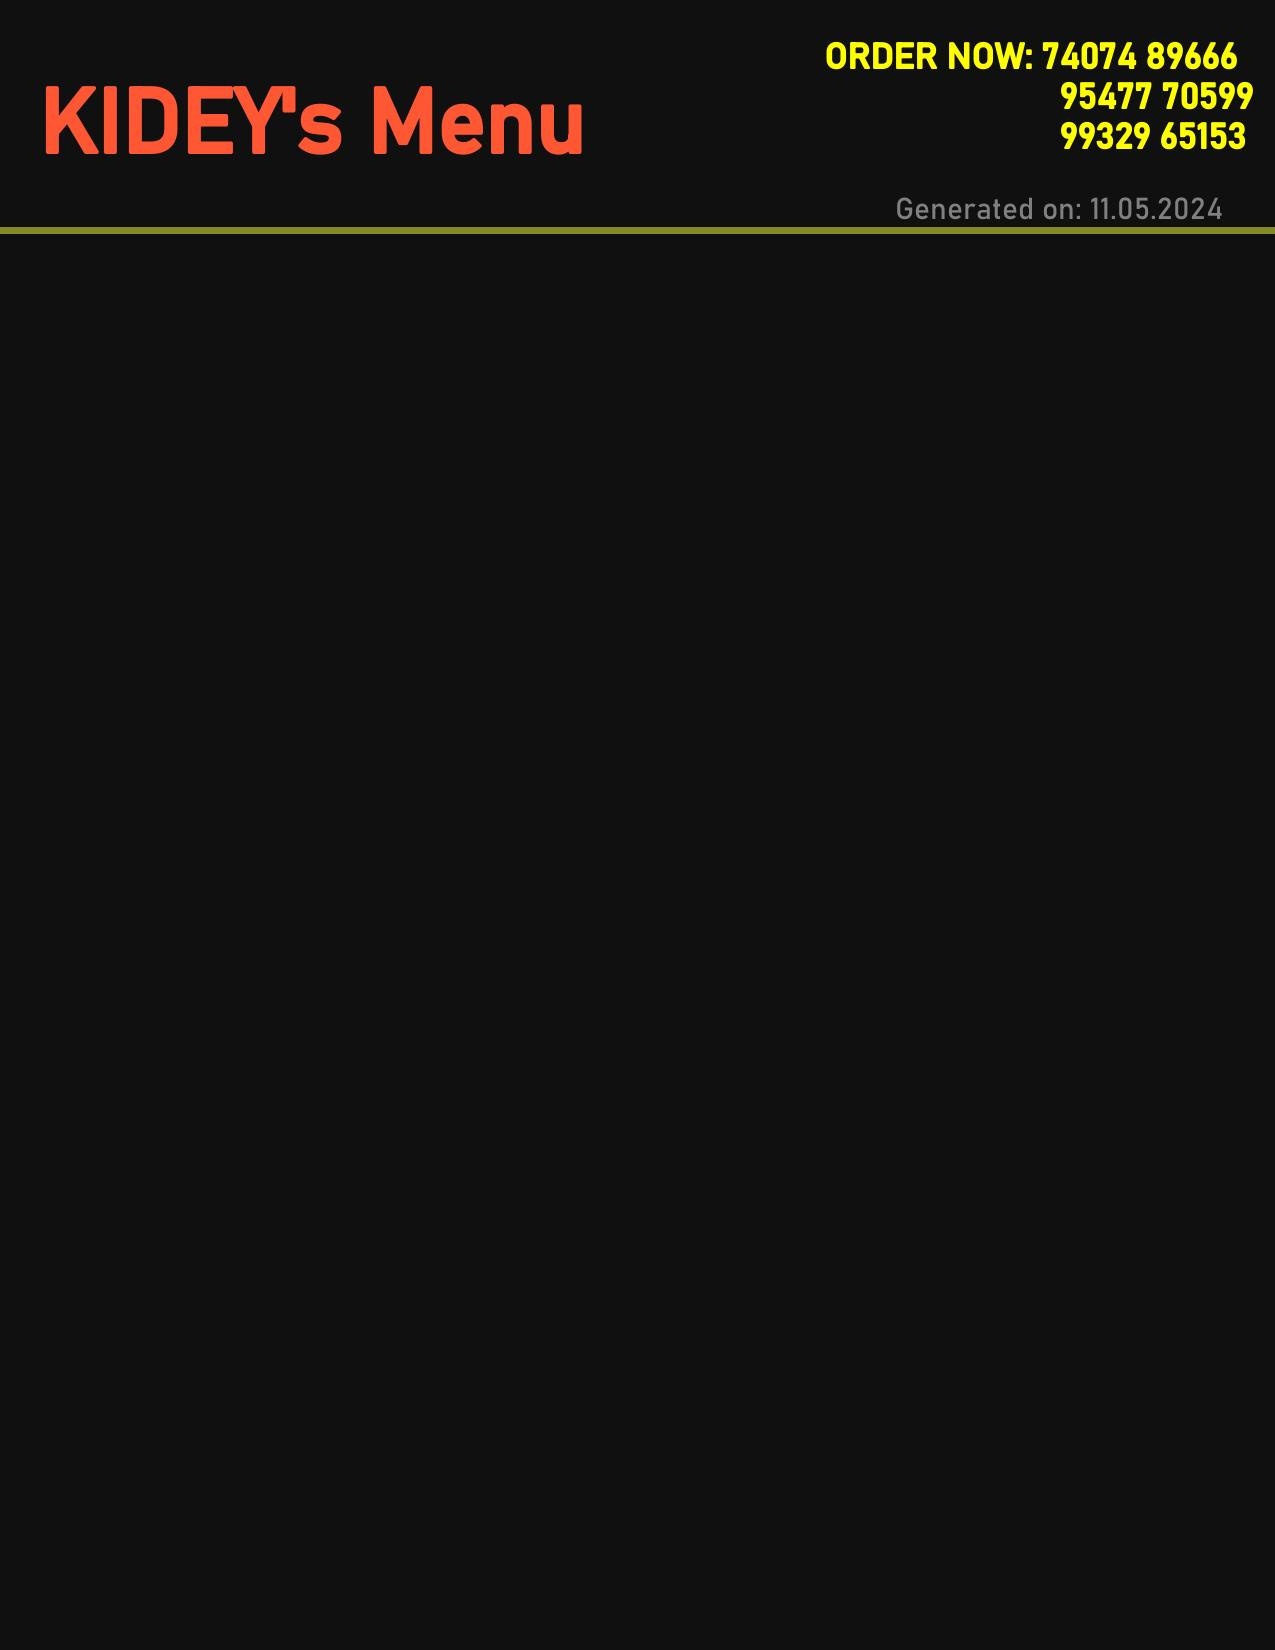
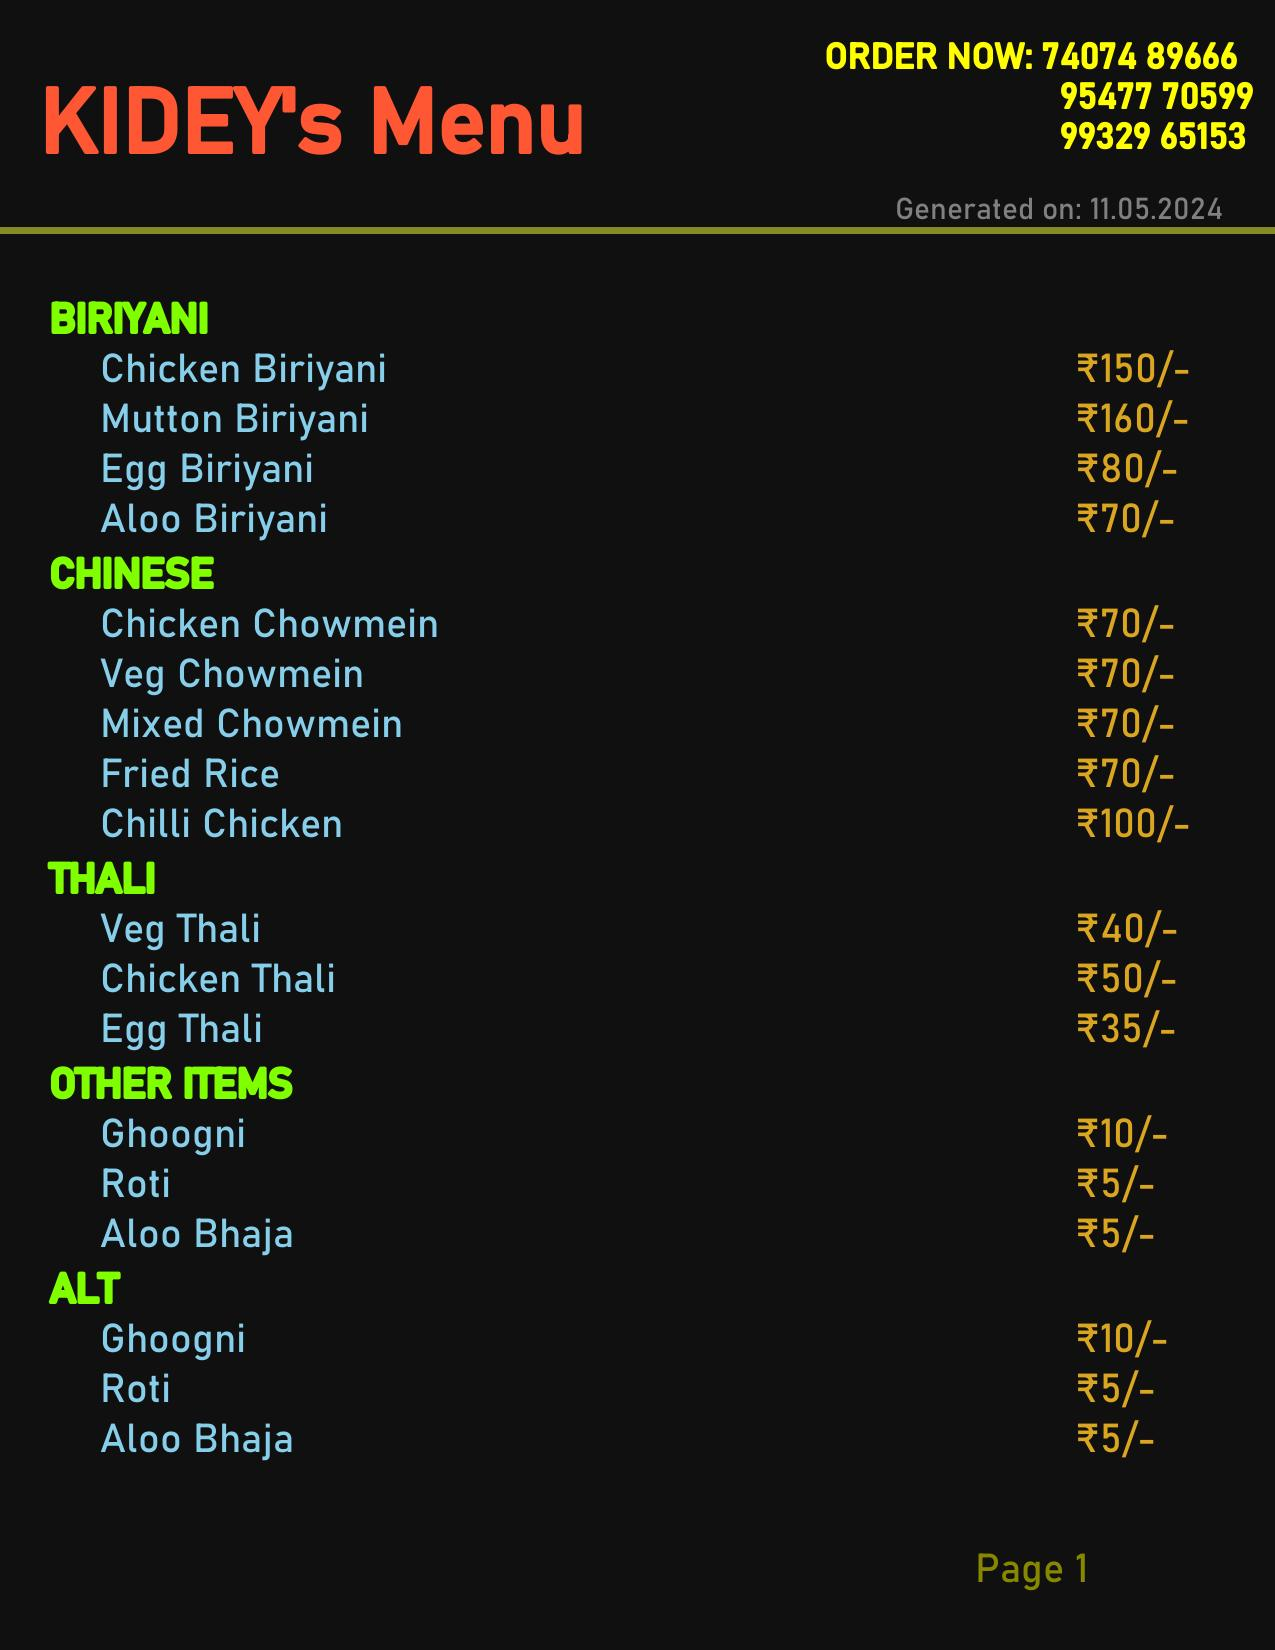
menucard generator works

diff --git a/trs.py b/trs.py
@@ -150,8 +150,12 @@ class MenuCardCreator():
         self.PAGE_WIDTH = 1275
         self.PAGE_HEIGHT = 1650
         self.YCURSOR = 300
+
         self.CATEGORY_HEIGHT = 40
         self.PRODUCT_HEIGHT = 35
+        self.PRODUCT_HEIGHT = 40
+
+        self.MENU_COVER_PORTION = 0.87
 
         self.page_count = 1
         self.path = None
@@ -159,21 +163,50 @@ class MenuCardCreator():
         self.img = None
         self.draw = None
 
+        self.category_font = ImageFont.truetype(self.BASE_FONT, self.CATEGORY_HEIGHT)
+        self.product_font = ImageFont.truetype(self.BASE_FONT, self.PRODUCT_HEIGHT)
+        self.page_number_font = ImageFont.truetype(self.BASE_FONT, self.PRODUCT_HEIGHT)
+
     def generate_menu_card(self, MENU: dict, path: str = '.'):
         self.path = path
 
         self.create_page()
+
+
+        for category in MENU:
+            #  WRITE CATEGORY
+
+            self.write_category(self.YCURSOR, category)
+            self.YCURSOR += self.CATEGORY_HEIGHT + 10
+
+            PRODUCTS = MENU[category]
+            for product in PRODUCTS:
+                self.write_product(product, PRODUCTS[product], self.YCURSOR)
+                
+                self.YCURSOR += self.PRODUCT_HEIGHT + 10
+                if self.YCURSOR >= self.MENU_COVER_PORTION * self.PAGE_HEIGHT:
+                    self.write_page_number()
+                    self.save_img()
+                    self.page_count += 1
+                    self.create_page()
+
+            self.YCURSOR += 5
+            if self.YCURSOR >= self.MENU_COVER_PORTION * self.PAGE_HEIGHT:
+                self.write_page_number()
+                self.save_img()
+                self.page_count += 1
+                self.create_page()
+
+
+        self.write_page_number()
         self.save_img()
-
-
-
 
     # Breakout Functions ---------------------------------------------------
     def create_page(self):
         self.img = Image.new('RGB', (self.PAGE_WIDTH, self.PAGE_HEIGHT), color=(16, 16, 16))
         self.draw = ImageDraw.Draw(self.img)
 
-        self.draw = self.draw_heading()
+        self.draw_heading()
         
     def draw_heading(self):
         font = ImageFont.truetype(self.BASE_FONT, 90)
@@ -190,9 +223,25 @@ class MenuCardCreator():
 
         self.draw.line([(0, 230), (self.PAGE_WIDTH, 230)], fill =(133, 138, 36), width = 7)
 
+        self.YCURSOR = 300
+
+    def write_category(self, cursor, category: str):
+        if category == "NONE":
+            self.draw.text((50, cursor), "OTHER ITEMS", font=self.category_font, fill=(127, 255, 0), stroke_fill=(127, 255, 0), stroke_width=2)
+        else:
+            self.draw.text((50, cursor), category, font=self.category_font, fill=(127, 255, 0), stroke_fill=(127, 255, 0), stroke_width=2)
+    
+    def write_product(self, product: str, price: int, cursor):
+        self.draw.text((100, cursor), product, font=self.product_font, fill=(135, 206, 235), stroke_fill=(135, 206, 235), stroke_width=0)
+        self.draw.text((self.PAGE_WIDTH-200, cursor), '₹'+str(price)+'/-', font=self.product_font, fill=(218, 165, 32), stroke_fill=(218, 165, 32), stroke_width=0)
+
+    def write_page_number(self):
+        self.draw.text((self.PAGE_WIDTH - 300, self.PAGE_HEIGHT - 100), f"Page {self.page_count}", font=self.page_number_font, fill=(135, 135, 0), stroke_fill=(135, 206, 235), stroke_width=0)
+
+
     def new_page(self):
         pass
-    
+
     def save_img(self):
         savename = f"menucard_{self.page_count}.jpg"
         savedir = os.path.join(self.path, savename)
